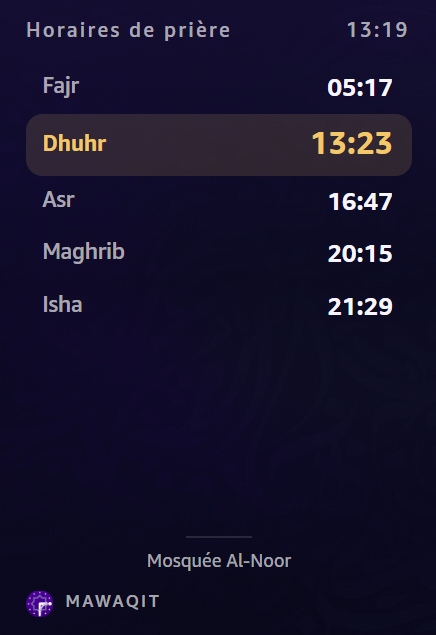
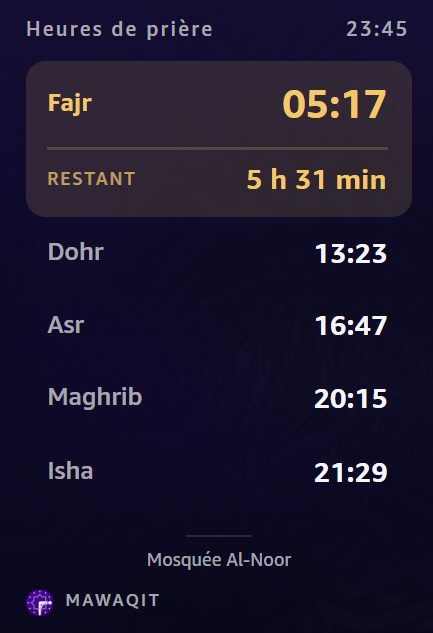
Updated UI for AllPrayerTimes

diff --git a/lambda/handlers/allPrayerTimeWidgetHandler.js b/lambda/handlers/allPrayerTimeWidgetHandler.js
@@ -29,14 +29,25 @@ const InstallAllPrayerTimeWidgetRequestHandler = {
       const prayerNames = helperFunctions.extractPhonemeText(
         requestAttributes.t("prayerNames"),
       );
-      const prayers = mosqueTimes.times.map((time, index) => ({
-        name: prayerNames[index],
-        time,
-      }));
       const mosqueName = persistentAttributes.primaryText;
       const currentDateTime = new Date(
         new Date().toLocaleString("en-US", { timeZone: userTimeZone }),
       );
+      const prayers = mosqueTimes.times.map((time, index) => {
+        const [hours, minutes] = time.split(":").map(Number);
+        // Same trick as the midnight calculation below: build the target in
+        // the localized-but-fake Date space, then apply its offset from
+        // currentDateTime to the real UTC Date.now() to get a true epoch.
+        const prayerDateTime = new Date(currentDateTime);
+        prayerDateTime.setHours(hours, minutes, 0, 0);
+        const epoch =
+          Date.now() + (prayerDateTime.getTime() - currentDateTime.getTime());
+        return {
+          name: prayerNames[index],
+          time,
+          epoch,
+        };
+      });
 
       // Which prayer is highlighted keeps changing through the day, but that
       // is recomputed reactively in APL from the live localTime binding, so
@@ -57,6 +68,16 @@ const InstallAllPrayerTimeWidgetRequestHandler = {
           content: {
             labels: {
               title: requestAttributes.t("widgets.allPrayerTime.title"),
+              // The countdown on the highlighted row reuses the Next Prayer
+              // widget's copy rather than duplicating it under a second key.
+              remaining: requestAttributes.t(
+                "widgets.nextPrayerTime.remaining",
+              ),
+              itsTime: requestAttributes.t("widgets.nextPrayerTime.itsTime"),
+              hourUnit: requestAttributes.t("widgets.nextPrayerTime.hourUnit"),
+              minuteUnit: requestAttributes.t(
+                "widgets.nextPrayerTime.minuteUnit",
+              ),
             },
             data: {
               prayers,
